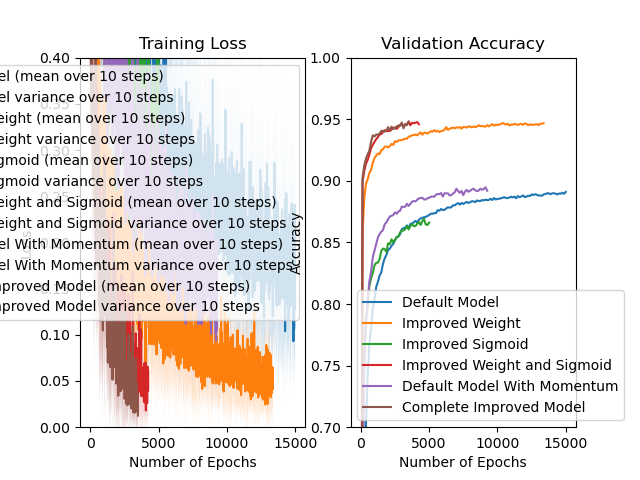
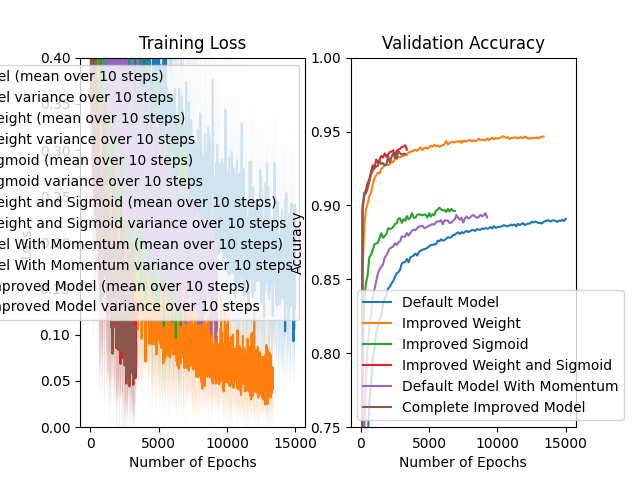
close to working task 4c

diff --git a/assignment2/task2a.py b/assignment2/task2a.py
@@ -17,7 +17,7 @@ def pre_process_images(X: np.ndarray):
     # Normalize the images
     X_avg = np.mean(X, axis=0)
     X_std = np.std(X, axis=0)
-    X = (X - X_avg) / (X_std + 1e-6)
+    X = (X - X_avg) / (X_std + 1e-8)
 
     # Apply bias trick
     bias_term = np.ones((X.shape[0], 1))
@@ -98,12 +98,13 @@ class SoftmaxModel:
         # HINT: For performing the backward pass, you can save intermediate activations in variables in the forward pass.
         # such as self.hidden_layer_output = ...        
         
+        # All the weights except the output layer
         hidden_weights = self.ws[:-1]
         self.activations = [X]
 
         # Hidden layer
         for layer_weights in hidden_weights:
-            z_hidden = np.dot(self.activations, layer_weights)
+            z_hidden = np.dot(self.activations[-1], layer_weights)
             if self.use_improved_sigmoid:
                 # Use improved sigmoid for hidden layer activation
                 hidden_activation = 1.7159 * np.tanh(2/3 * z_hidden) # This is essentially the hidden neurons
@@ -113,8 +114,8 @@ class SoftmaxModel:
             self.activations.append(hidden_activation)
             
         #output layer
-        output_weights = self.ws[1]
-        z_output = np.dot(self.hidden_activation, output_weights)
+        output_weights = self.ws[-1]
+        z_output = np.dot(self.activations[-1], output_weights)
         predictions = np.exp(z_output) / np.sum(np.exp(z_output), axis=1, keepdims=True)
         self.activations.append(predictions)
         
@@ -136,7 +137,7 @@ class SoftmaxModel:
         ), f"Output shape: {outputs.shape}, targets: {targets.shape}"
         # A list of gradients.
         # For example, self.grads[0] will be the gradient for the first hidden layer
-        self.grads = []
+        self.grads = [np.zeros_like(w) for w in self.ws]
         for grad, w in zip(self.grads, self.ws):
             assert (
                 grad.shape == w.shape
@@ -144,22 +145,24 @@ class SoftmaxModel:
 
         # Calculate the error
         # Output layer
-        previous_layer_error -= -(targets - outputs)
+        propagated_error = outputs - targets
         
-        for layer_number in reversed(range(1, len(self.ws) - 1)): # Iterates backwards starting from the layer behind the output layer
-            current_activation = self.activations[layer_number]
-            gradient_current_layer = np.dot(self.current_activation.T, previous_layer_error) / len(X)
+        for layer_number in reversed(range(len(self.ws))): # Iterates backwards starting from the layer behind the output layer
+            current_layer_activations = self.activations[layer_number]
+            gradient_current_layer = np.dot(current_layer_activations.T, propagated_error) / X.shape[0]
             self.grads[layer_number] = gradient_current_layer
 
+            # If not the output layer
             if layer_number > 0:
+                propagated_error = np.dot(propagated_error, self.ws[layer_number].T)
                 if self.use_improved_sigmoid:
                     # Derivative of improved sigmoid
-                    derivative = 1.14393 * (1 - np.tanh(2/3 * np.dot(X, self.ws[0]))**2)
+                    activation_derivative = 1.7159 * (1 - np.tanh(2/3 * current_layer_activations)**2)
                 else:
                     # Derivative of standard sigmoid
-                    derivative = current_activation * (1 - current_activation)
-                previous_layer_error = np.dot(previous_layer_error, self.ws[layer_number].T)*derivative
-
+                    activation_derivative = current_layer_activations * (1 - current_layer_activations)
+                propagated_error = propagated_error * activation_derivative
+                
     def zero_grad(self) -> None:
         self.grads = [np.zeros_like(w) for w in self.ws]
 

diff --git a/assignment2/task3.py b/assignment2/task3.py
@@ -91,6 +91,68 @@ def main():
     plt.savefig("assignment2/images/task3_complete.png")
     # Show the plot
     plt.show()
+    
+    model_configurations = [
+        ('1 Layer - 64 Nodes', [64, 10]),
+        ('2 Layers - 64 Nodes each', [64, 64, 10]),
+        ('1 Layer - 100 Nodes', [100, 10]),
+        ('2 Layers - 100 and 30 Nodes', [100, 30, 10]),
+        # Add more configurations as needed
+    ]
 
+    # Initialize models and trainers for each configuration
+    for label, neurons_per_layer in model_configurations:
+        # Initialize the model and trainer
+        model = SoftmaxModel(
+            neurons_per_layer,
+            use_improved_sigmoid=False,  
+            use_improved_weight_init=False,  
+            use_relu=False)  
+        trainer = SoftmaxTrainer(
+            momentum_gamma,
+            use_momentum,  
+            model,
+            learning_rate,
+            batch_size,
+            shuffle_data,
+            X_train,
+            Y_train,
+            X_val,
+            Y_val)
+
+        print(f"Training model: {label}")
+        
+        # Train the model
+        train_history, val_history = trainer.train(num_epochs)
+    
+        print(f"Final Train Cross Entropy Loss for {label}:",
+              cross_entropy_loss(Y_train, model.forward(X_train)))
+        print(f"Final Validation Cross Entropy Loss for {label}:",
+              cross_entropy_loss(Y_val, model.forward(X_val)))
+        print(f"Train accuracy for {label}:", calculate_accuracy(X_train, Y_train, model))
+        print(f"Validation accuracy for {label}:", calculate_accuracy(X_val, Y_val, model))
+
+        # Plot training loss and validation accuracy
+        plt.subplot(1, 2, 1)
+        utils.plot_loss(train_history["loss"], label, npoints_to_average=10)
+        plt.title("Training Loss")
+        plt.xlabel("Number of Epochs")
+        plt.ylabel("Loss")
+        plt.legend()
+        plt.ylim([0, .4])
+
+        plt.subplot(1, 2, 2)
+        utils.plot_loss(val_history["accuracy"], label)
+        plt.title("Validation Accuracy")
+        plt.xlabel("Number of Epochs")
+        plt.ylabel("Accuracy")
+        plt.legend()
+        plt.ylim([0.75, 1.0])
+
+    # Save the plot
+    plt.savefig("assignment2/images/task4_model_topology_comparisons.png")
+    # Show the plot
+    plt.show()
+    
 if __name__ == "__main__":
     main()
